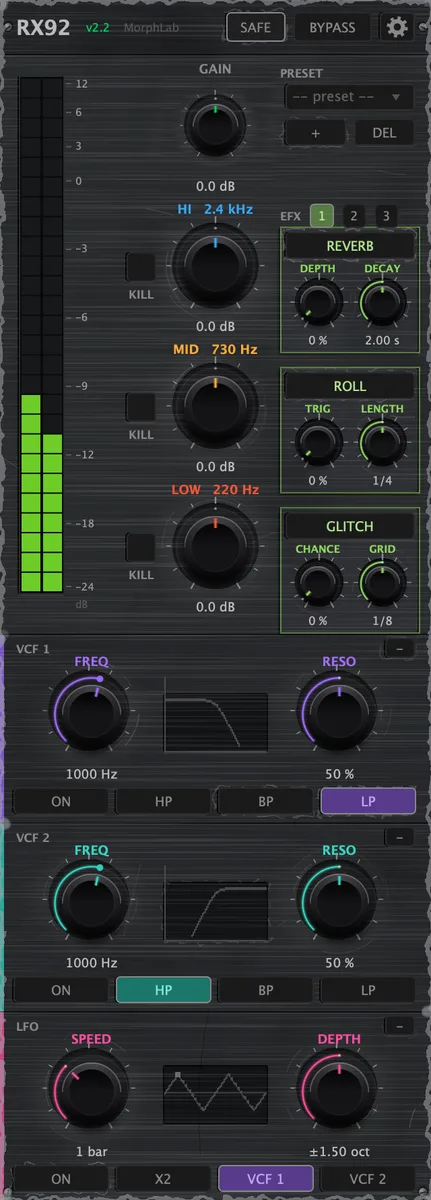
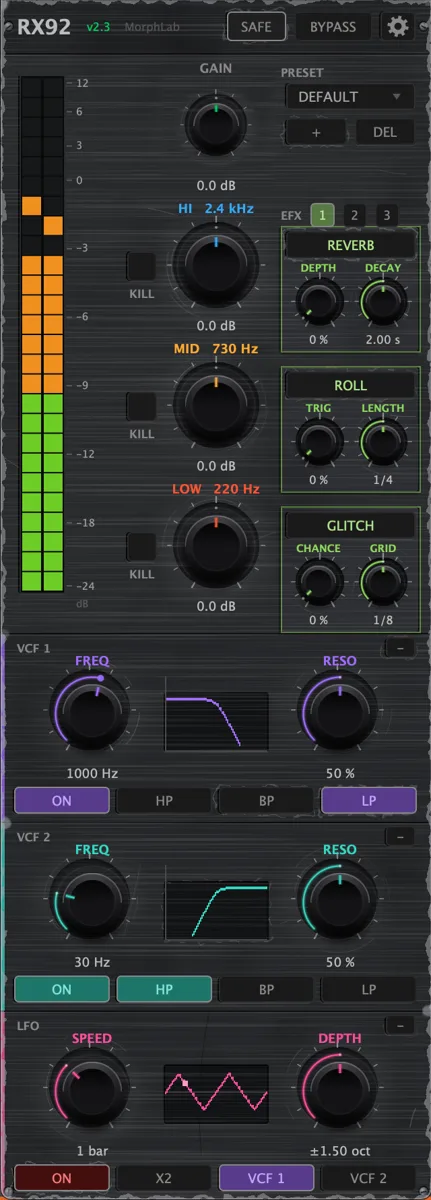
RX92 2.3: zoom fino al 200%; 2.2 in archivio
Claude-Session: https://claude.ai/code/session_012eAqbrFEpFriD9dML5nSwg

diff --git a/assets/site.js b/assets/site.js
@@ -35,9 +35,9 @@ const PRODUCTS = [
     released:"2026-10-31", older:[{ version:"2.1", released:"2026-10-05" }],
     tag:"All-pass phase tool",
     text:"Rotates phase with first- or second-order all-pass filters without touching the magnitude. Align kicks, layers and multi-mic recordings, and watch the result on a beat-locked waveform." },
-  { id:"rx92", file:"RX92", name:"RX92", version:"2.2", group:"plugins",
+  { id:"rx92", file:"RX92", name:"RX92", version:"2.3", group:"plugins",
     tall:true,  // narrow, very tall UI: its page shows the full-resolution screenshot whole instead of a 16:10 box
-    released:"2026-10-16", older:[],
+    released:"2026-10-31", older:[{ version:"2.2", released:"2026-10-16" }],
     tag:"DJ channel strip",
     text:"A channel strip modelled on the famous club mixer, built for live sets: 3-band EQ with kill, two series filters with a tempo-synced LFO and three effect slots inspired by the most-used DJ mixers. Zero latency, every parameter mappable to your MIDI controller." },
   { id:"morphcontrolxl", file:"MorphControl-XL", name:"MorphControl XL", version:"1.2", group:"tools",
